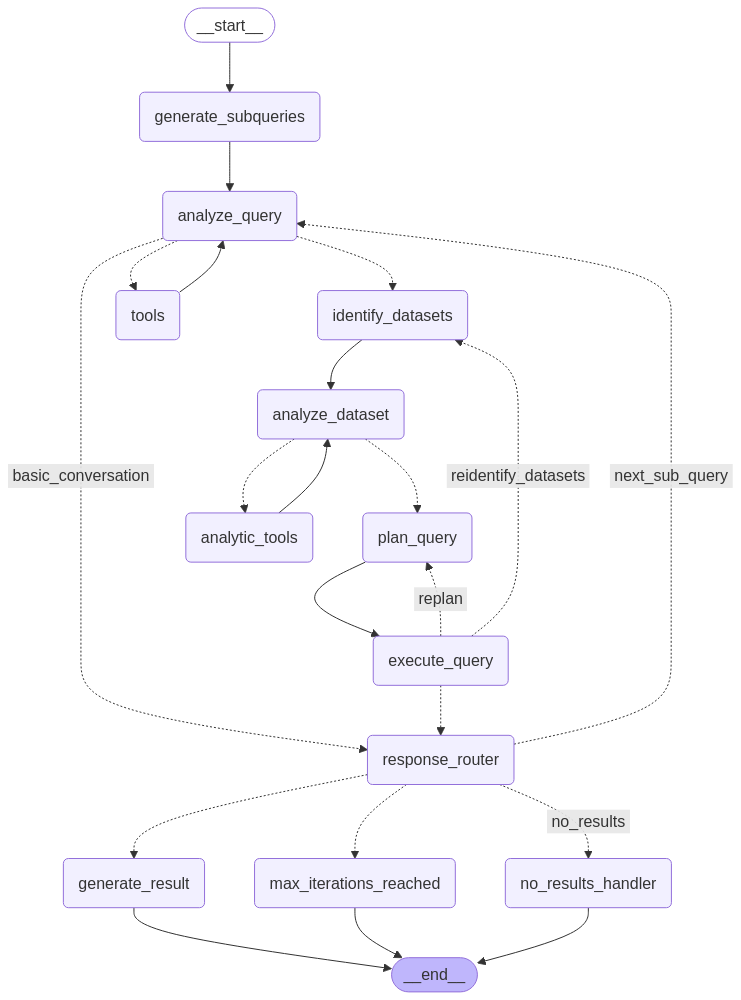
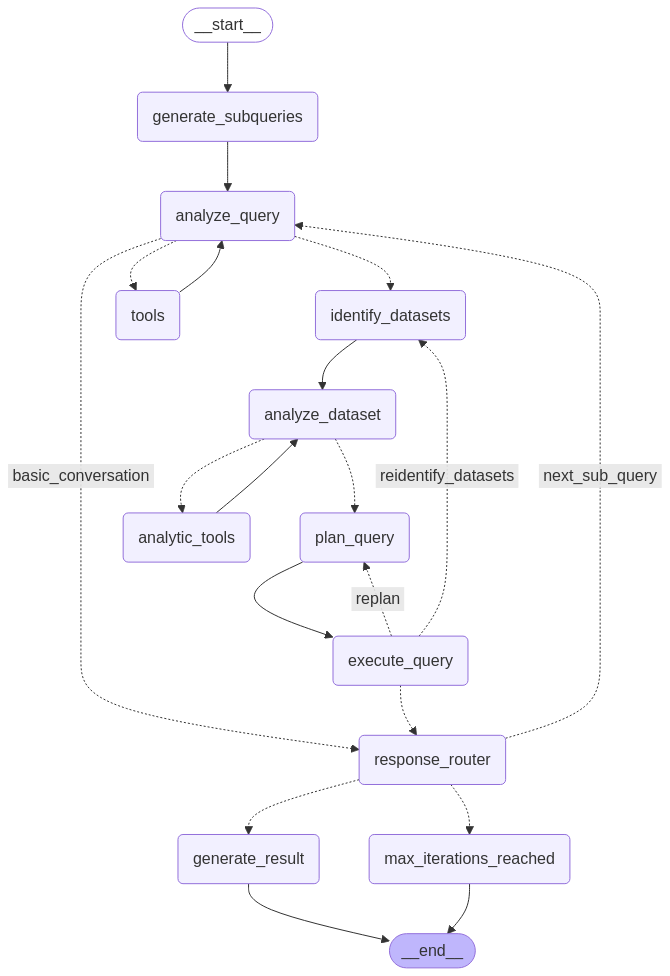
feat: refine query handling & no result handler

diff --git a/src/lib/graph/response/generate_result.py b/src/lib/graph/response/generate_result.py
@@ -1,7 +1,5 @@
 import json
-from typing import Any, Dict, List, Optional, Union
-
-from langchain_core.output_parsers import JsonOutputParser
+from typing import Any, Dict, List
 
 from src.lib.config.langchain_config import lc
 from src.lib.graph.query_result.query_type import QueryResult
@@ -11,7 +9,26 @@ from src.lib.graph.types import AIMessage, ErrorMessage, State
 def generate_result(state: State) -> Dict[str, List[Any]]:
     """Generate results of the executed query."""
     query_result = state.get("query_result")
-    print("aggregated result", query_result)
+    if query_result:
+        print("\n" + "=" * 50)
+        print("AGGREGATED QUERY RESULT")
+        print("=" * 50)
+        print(
+            json.dumps(
+                query_result.to_dict()
+                if hasattr(query_result, "to_dict")
+                else query_result,
+                indent=2,
+            )
+        )
+        print("=" * 50 + "\n")
+
+    any_data_query = False
+    if isinstance(query_result, QueryResult) and query_result.has_subqueries():
+        for subquery in query_result.subqueries:
+            if subquery.query_type == "data_query" and subquery.query_result:
+                any_data_query = True
+                break
 
     try:
         if not isinstance(query_result, QueryResult):
@@ -28,11 +45,10 @@ def generate_result(state: State) -> Dict[str, List[Any]]:
                 ]
             }
 
-        query_type = state.get("query_type", "")
         return (
-            _handle_conversational_query(state, query_result)
-            if query_type in ("conversational", "tool_only")
-            else _handle_data_query(state, query_result)
+            _handle_data_query(state, query_result)
+            if any_data_query
+            else _handle_conversational_query(state, query_result)
         )
     except Exception as e:
         return {
@@ -79,26 +95,32 @@ def _handle_conversational_query(
 def _handle_data_query(state: State, query_result: QueryResult) -> Dict[str, List[Any]]:
     """Handle data analysis queries"""
     if query_result.has_error():
+        error_details = (
+            json.dumps(query_result.error_message)
+            if query_result.error_message
+            else "Unknown error"
+        )
         return {
-            "messages": [
-                ErrorMessage.from_text(
-                    json.dumps({"error": query_result.error_message})
-                )
-            ]
+            "messages": [ErrorMessage.from_text(json.dumps({"error": error_details}))]
         }
 
     user_query = query_result.original_user_query
     results = []
+    tool_used_results = []
     sql_queries = []
 
     if query_result.has_subqueries():
         for subquery in query_result.subqueries:
             if subquery.query_result:
                 results.append(subquery.query_result)
+
+            if subquery.tool_used_result:
+                tool_used_results.append(subquery.tool_used_result)
+
             if subquery.sql_query_used:
                 sql_queries.append(subquery.sql_query_used)
 
-    if not results:
+    if not results and not tool_used_results:
         return _handle_empty_results()
 
     prompt = f"""
@@ -106,6 +128,7 @@ def _handle_data_query(state: State, query_result: QueryResult) -> Dict[str, Lis
     - Query: "{user_query}"
     - SQL: "{"; ".join(sql_queries)}"
     - Results: {json.dumps(results, indent=2)}
+    - Tool Results: {json.dumps(tool_used_results, indent=2) if tool_used_results else "No additional context available."}
 
     Instructions:
         1. Provide direct, concise answers
@@ -134,19 +157,3 @@ def _handle_empty_results() -> Dict[str, List[Any]]:
             )
         ]
     }
-
-
-def _extract_executed_query(message: Optional[Any]) -> Union[str, Dict[str, str]]:
-    """Extract executed query from message content"""
-    if not message:
-        return ""
-
-    try:
-        content = message.content
-        if isinstance(content, str):
-            return JsonOutputParser().parse(content).get("query_executed", "")
-        elif isinstance(content, dict):
-            return content.get("query_executed", "")
-        return ""
-    except Exception as e:
-        return {"error": "Could not process query results", "details": str(e)}

diff --git a/src/lib/graph/__init__.py b/src/lib/graph/__init__.py
@@ -1,15 +1,15 @@
 from langgraph.graph import END, START, StateGraph
+
+from src.lib.graph.analyze_dataset import analyze_dataset, route_from_dataset_analysis
+from src.lib.graph.analyze_query import analyze_query, route_from_analysis
 from src.lib.graph.execute_query import execute_query, route_query_replan
 from src.lib.graph.generate_subqueries import generate_subqueries
+from src.lib.graph.identify_datasets import identify_datasets
 from src.lib.graph.plan_query import plan_query
 from src.lib.graph.response.generate_result import generate_result
 from src.lib.graph.response.max_iterations import max_iterations_reached
-from src.lib.graph.response.no_result import no_results_handler
 from src.lib.graph.response.response_handler import route_response_handler
 from src.lib.graph.types import State
-from src.lib.graph.identify_datasets import identify_datasets
-from src.lib.graph.analyze_dataset import analyze_dataset, route_from_dataset_analysis
-from src.lib.graph.analyze_query import analyze_query, route_from_analysis
 from src.tools import TOOLS
 from src.tools.tool_node import ToolNode
 
@@ -21,7 +21,6 @@ graph_builder.add_node("plan_query", plan_query)
 graph_builder.add_node("execute_query", execute_query)
 graph_builder.add_node("generate_result", generate_result)
 graph_builder.add_node("max_iterations_reached", max_iterations_reached)
-graph_builder.add_node("no_results_handler", no_results_handler)
 graph_builder.add_node("analyze_dataset", analyze_dataset)
 graph_builder.add_node("tools", ToolNode(tools=list(TOOLS.values())))
 graph_builder.add_node("analytic_tools", ToolNode(tools=list(TOOLS.values())))
@@ -33,7 +32,7 @@ graph_builder.add_conditional_edges(
     {
         "identify_datasets": "identify_datasets",
         "basic_conversation": "response_router",
-        "tools": "tools"
+        "tools": "tools",
     },
 )
 
@@ -43,7 +42,7 @@ graph_builder.add_conditional_edges(
     {
         "response_router": "response_router",
         "replan": "plan_query",
-        "reidentify_datasets": "identify_datasets"
+        "reidentify_datasets": "identify_datasets",
     },
 )
 
@@ -54,17 +53,13 @@ graph_builder.add_conditional_edges(
         "next_sub_query": "analyze_query",
         "generate_result": "generate_result",
         "max_iterations_reached": "max_iterations_reached",
-        "no_results": "no_results_handler"
     },
 )
 
 graph_builder.add_conditional_edges(
     "analyze_dataset",
     route_from_dataset_analysis,
-    {
-        "analytic_tools": "analytic_tools",
-        "plan_query": "plan_query"
-    }
+    {"analytic_tools": "analytic_tools", "plan_query": "plan_query"},
 )
 
 graph_builder.add_edge(START, "generate_subqueries")
@@ -75,9 +70,9 @@ graph_builder.add_edge("identify_datasets", "analyze_dataset")
 graph_builder.add_edge("plan_query", "execute_query")
 graph_builder.add_edge("generate_result", END)
 graph_builder.add_edge("max_iterations_reached", END)
-graph_builder.add_edge("no_results_handler", END)
 
 graph = graph_builder.compile()
+
 
 async def stream_graph_updates(user_input: str):
     """Stream graph updates for user input."""
@@ -91,7 +86,6 @@ async def stream_graph_updates(user_input: str):
         "execute_query",
         "generate_result",
         "max_iterations_reached",
-        "no_results_handler"
     ]
 
     for event in graph.stream({"messages": [{"role": "user", "content": user_input}]}):
@@ -102,9 +96,10 @@ async def stream_graph_updates(user_input: str):
                     print(str(event[event_type]["messages"][-1].content) + "\n\n")
                     yield str(event[event_type]["messages"][-1].content) + "\n\n"
 
+
 def visualize_graph():
     try:
         with open("graph/graph.png", "wb") as f:
             f.write(graph.get_graph().draw_mermaid_png())
     except Exception as e:
-            raise e
+        raise e

diff --git a/src/lib/graph/analyze_query.py b/src/lib/graph/analyze_query.py
@@ -70,14 +70,13 @@ def analyze_query(state: State) -> dict:
         state.get("subqueries")[query_index] if state.get("subqueries") else "No input"
     )
     tool_results = state.get("tool_results", [])
-
     query_result = state.get("query_result")
 
     query_result.add_subquery(
         query_text=user_input,
         sql_query_used="",
         tables_used=None,
-        query_type=None,
+        query_type="conversational",
         query_result=None,
         tool_used_result=None,
     )
@@ -98,9 +97,12 @@ def analyze_query(state: State) -> dict:
         parser = JsonOutputParser()
 
         if has_tool_calls(response):
+            query_result.subqueries[query_index].query_type = "tool_only"
+
             return {
+                "query_result": query_result,
+                "subquery_index": query_index,
                 "user_query": user_input,
-                "query_type": "tool_only",
                 "messages": [
                     response
                     if isinstance(response, AIMessage)
@@ -112,14 +114,12 @@ def analyze_query(state: State) -> dict:
         parsed_content = parser.parse(response_content)
 
         query_type = parsed_content.get("query_type", "conversational")
-
         query_result.subqueries[query_index].query_type = query_type
 
         return {
             "query_result": query_result,
             "subquery_index": query_index,
             "user_query": user_input,
-            "query_type": query_type,
             "messages": [
                 IntermediateStep.from_text(json.dumps(parsed_content, indent=2))
             ],
@@ -128,10 +128,12 @@ def analyze_query(state: State) -> dict:
     except Exception as e:
         error_msg = f"Error analyzing query: {str(e)}"
         query_result.add_error_message(str(e), "Error analyzing query")
+        query_result.subqueries[query_index].query_type = "conversational"
+
         return {
             "query_result": query_result,
+            "subquery_index": query_index,
             "user_query": user_input,
-            "query_type": "conversational",
             "messages": [
                 ErrorMessage.from_text(json.dumps({"error": error_msg}, indent=2))
             ],
@@ -153,7 +155,10 @@ def route_from_analysis(state: State) -> str:
     if has_tool_calls(last_message):
         return "tools"
 
-    query_type = state.get("query_type", "conversational")
+    query_result = state.get("query_result")
+    query_index = state.get("subquery_index", -1)
+
+    query_type = query_result.subqueries[query_index].query_type
 
     if query_type == "conversational" or query_type == "tool_only":
         return "basic_conversation"

diff --git a/src/lib/graph/generate_subqueries.py b/src/lib/graph/generate_subqueries.py
@@ -21,8 +21,15 @@ def generate_subqueries(state: State):
       - Only create sub-queries when they're genuinely needed (for different data aspects or computational steps)
       - If the query is simple enough to handle with one SQL query, return an empty list
       - Order sub-queries logically: place data retrieval/analysis queries first, followed by queries that depend on previous results
-      - Avoid redundancy by grouping related entities (locations, companies, categories) in the same sub-query
+      - Focus only on the specific entities mentioned in the query (e.g., only the specified districts, not all districts)
       - Ensure each sub-query addresses a distinct aspect of the main question
+
+      For example, for a query like "Is it a fact that no CSR funds were spent in the five backward districts of Telangana?",
+      you could divide it into this sub-query:
+      "Check if the specified backward districts of Telangana (Jagtial, Peddapalli, Jayashankar Bhupalpally, Nagarkurnool and Jogulamba) have zero CSR funds"
+
+      CAUTION: Do not write subqueries that would retrieve the whole tuples of the tables or process entities not explicitly mentioned in the query.
+      Instead, write subqueries that would retrieve only the required values for the specific entities mentioned.
 
       RESPONSE FORMAT:
       {{
@@ -33,6 +40,9 @@ def generate_subqueries(state: State):
     """
 
     response = lc.llm.invoke(prompt)
+
+    print("response: ", response)
+
     query_result_object = QueryResult(
         original_user_query=user_input,
         timestamp=datetime.now(),
@@ -45,7 +55,7 @@ def generate_subqueries(state: State):
         parser = JsonOutputParser()
         parsed_content = parser.parse(str(response.content))
 
-        subqueries = parsed_content.get("subqueries")
+        subqueries = None
 
         if not subqueries:
             subqueries = [user_input]

diff --git a/src/tools/tool_node.py b/src/tools/tool_node.py
@@ -16,7 +16,7 @@ class ToolNode:
             raise ValueError("No message found in input")
 
         outputs = []
-        all_tool_results = state.get("tool_results", [])
+        all_tool_results = []
 
         for tool_call in message.tool_calls:
             tool_result = self.tools[tool_call["name"]].invoke(tool_call["args"])
@@ -31,8 +31,12 @@ class ToolNode:
                 )
             )
 
+        query_result = state.get("query_result", [])
+        query_index = state.get("subquery_index", -1)
+        query_result.subqueries[query_index].tool_used_result = all_tool_results
+
         return {
-            "tool_results": all_tool_results,
+            "query_result": query_result,
             "messages": outputs,
         }
 

diff --git a/src/lib/graph/response/response_handler.py b/src/lib/graph/response/response_handler.py
@@ -5,7 +5,7 @@ def route_response_handler(state: State) -> str:
     """Route to the appropriate response handler based on the state"""
     retry_count = state.get("retry_count", 0)
     message = state["messages"][-1]
-    query_result = state.get("query_result", {})
+
     subqueries = state.get("subqueries", [])
     query_index = state.get("subquery_index", 0)
 
@@ -15,11 +15,5 @@ def route_response_handler(state: State) -> str:
 
     if len(subqueries) - 1 > query_index:
         return "next_sub_query"
-
-    aggregated_query_result = list(
-        map(lambda x: x.query_result, query_result.subqueries)
-    )
-    if not any(aggregated_query_result):
-        return "no_results"
 
     return "generate_result"

diff --git a/src/lib/graph/types.py b/src/lib/graph/types.py
@@ -1,4 +1,4 @@
-from typing import Annotated, Any, Dict, List, TypedDict
+from typing import Annotated, TypedDict
 
 from langchain_core.messages import AIMessage
 from langgraph.graph.message import add_messages
@@ -15,7 +15,6 @@ class State(TypedDict):
     sql_query: str
     retry_count: int
     user_query: str
-    tool_results: List[Dict[str, Any]]
     messages: Annotated[list, add_messages]
     query_result: QueryResult
 
